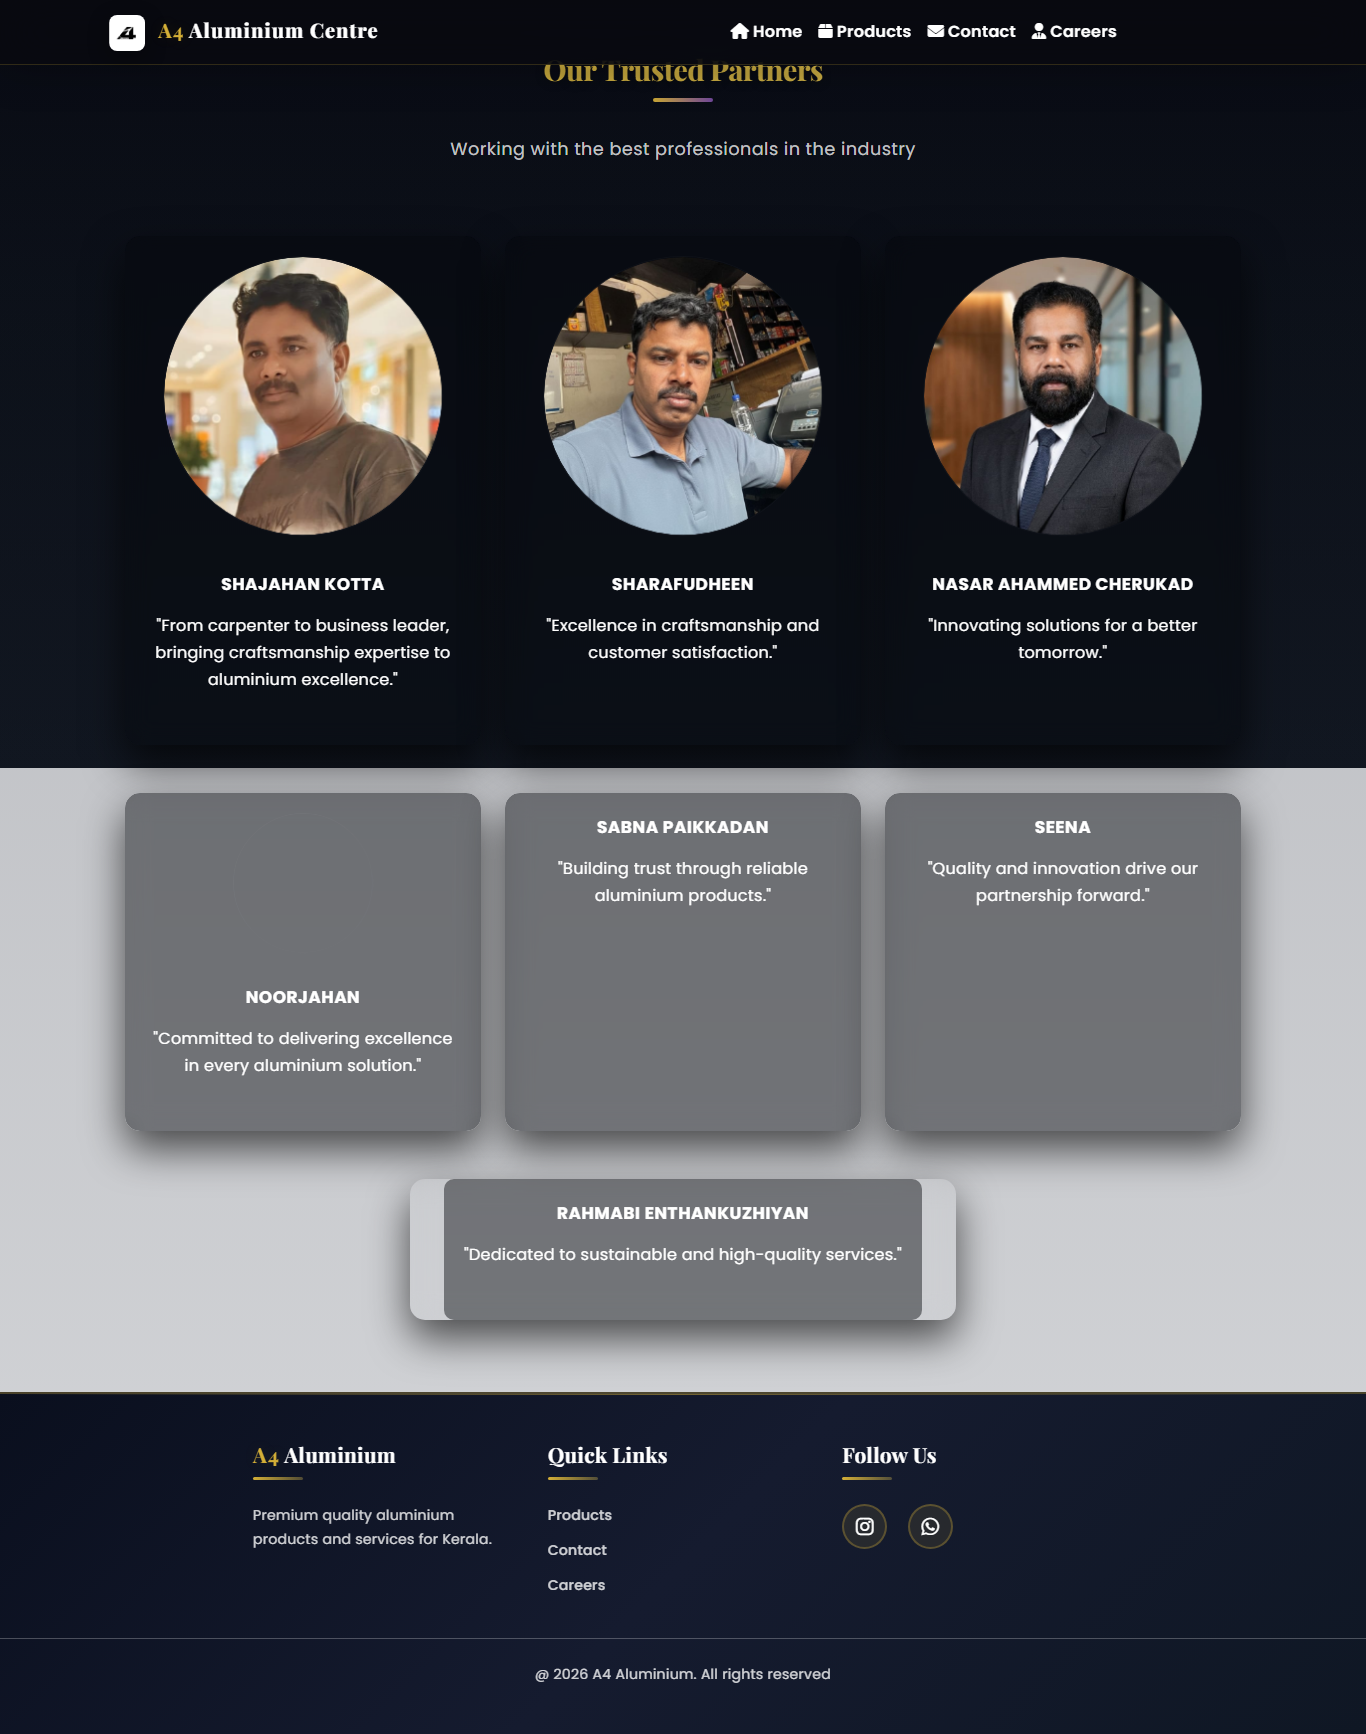
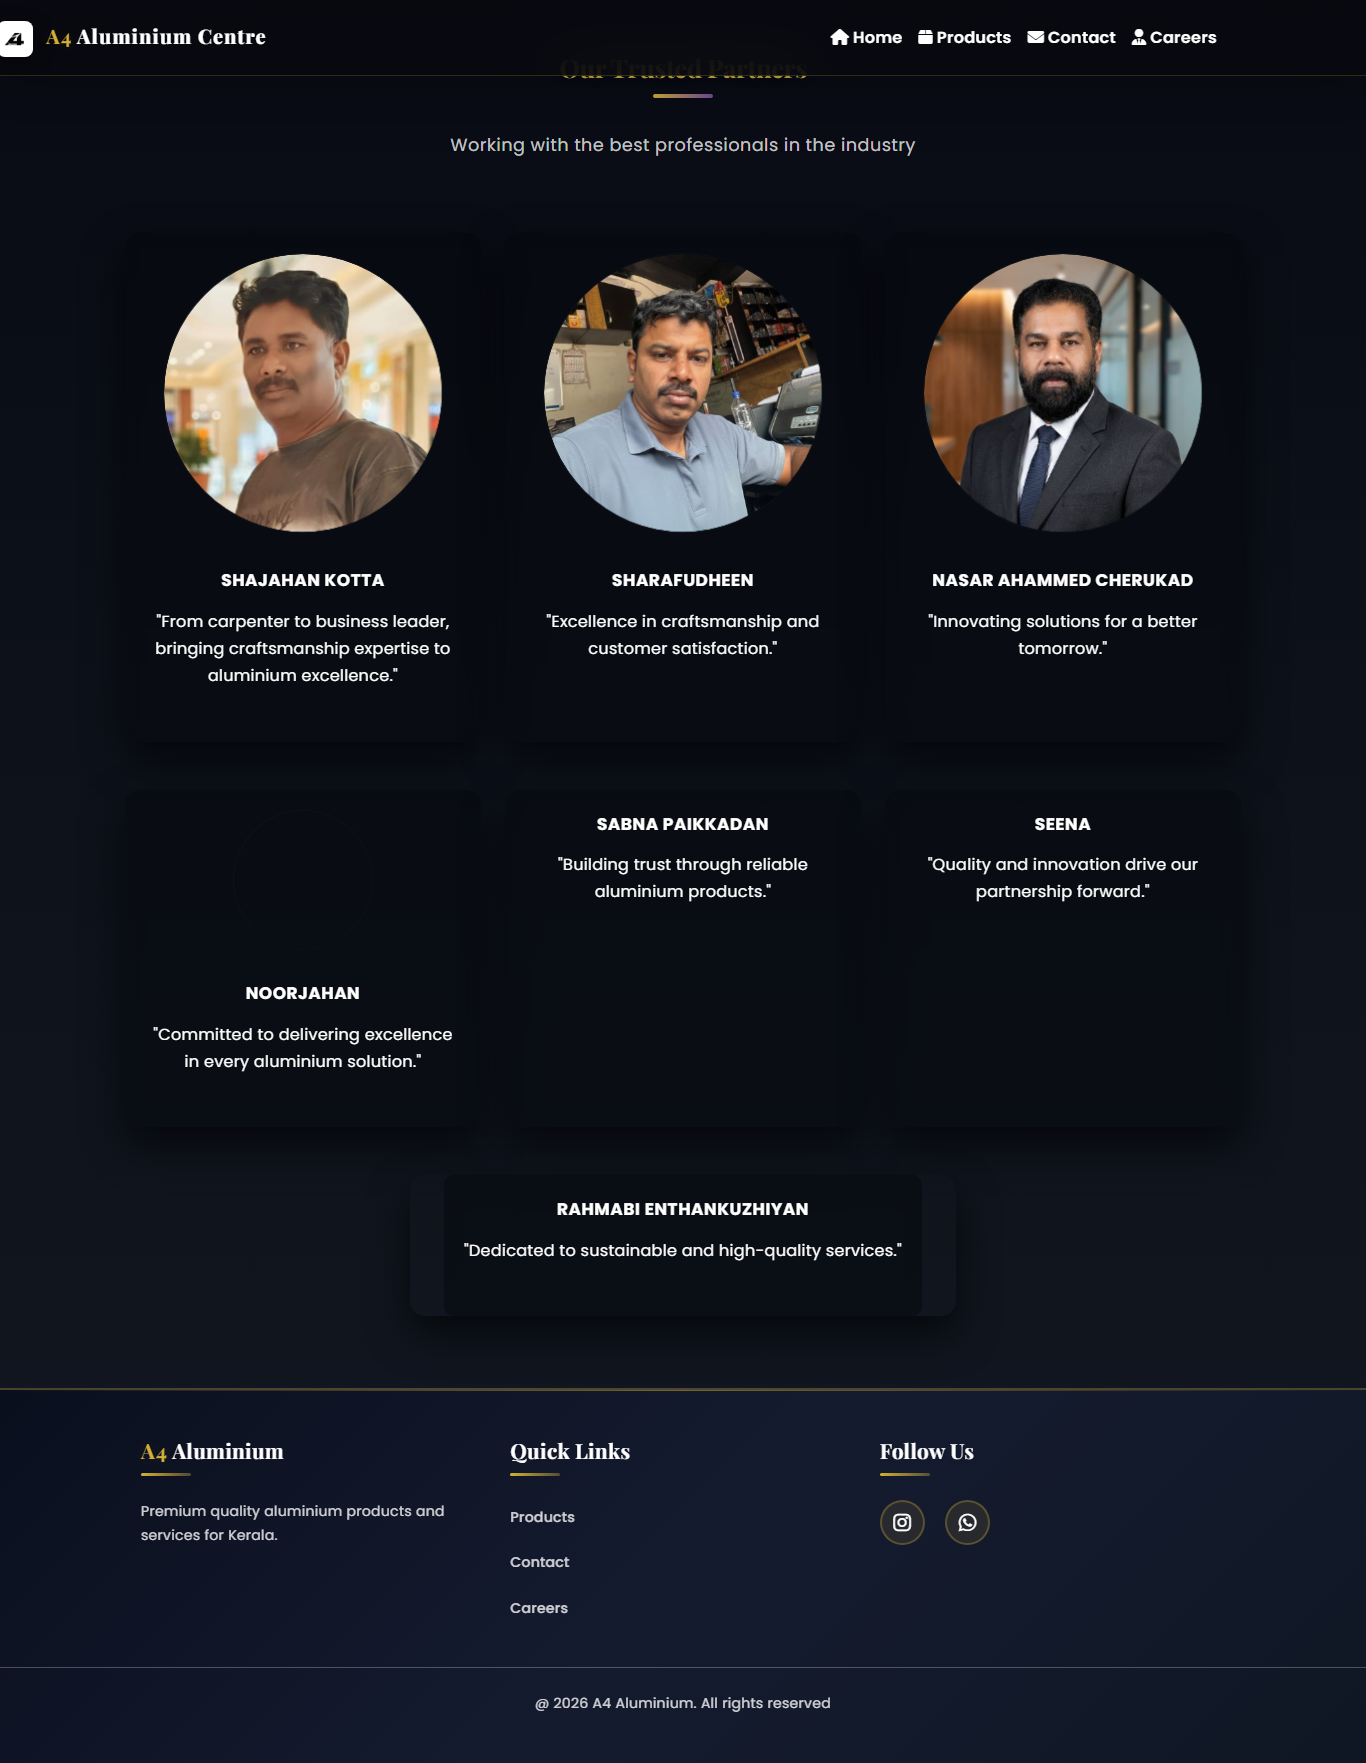
Update: a4 aluminium

diff --git a/script.js b/script.js
@@ -1,6 +1,30 @@
 // Professional JavaScript for A4 Aluminium Website
 
 document.addEventListener("DOMContentLoaded", function () {
+  // Ensure html/body have inline background styles immediately to avoid
+  // repaint gaps/white flashes during fast scrolling. Inline styles take
+  // precedence over CSS and apply before external CSS fully paints.
+  try {
+    const grad =
+      "linear-gradient(180deg, #08090f 0%, #0d1117 40%, #131820 100%)";
+    document.documentElement.style.background = grad;
+    document.documentElement.style.backgroundAttachment = "scroll";
+    document.documentElement.style.backgroundColor = "#08090f";
+    document.documentElement.style.height = "100%";
+    if (document.body) {
+      document.body.style.background = grad;
+      document.body.style.backgroundAttachment = "scroll";
+      document.body.style.minHeight = "100vh";
+      document.body.style.backgroundColor = "#08090f";
+    }
+    // Reapply on load in case something overrides earlier
+    window.addEventListener("load", function () {
+      document.documentElement.style.backgroundAttachment = "scroll";
+      if (document.body) document.body.style.backgroundAttachment = "scroll";
+    });
+  } catch (e) {
+    // ignore
+  }
   // Preloader
   const preloader = document.getElementById("preloader");
   if (preloader) {
@@ -467,6 +491,29 @@ document.addEventListener("DOMContentLoaded", function () {
     recompute();
     window.addEventListener("resize", recompute);
     window.addEventListener("scroll", recompute);
+  })();
+
+  // Optional: Force desktop mode on narrow viewports via CSS class.
+  // This keeps the responsive meta intact but forces desktop widths
+  // so the site appears in desktop layout on phones (user requested).
+  (function forceDesktopMode() {
+    try {
+      const shouldForce = window.innerWidth < 1000; // threshold for phones/tablets
+      if (shouldForce) {
+        document.body.classList.add("force-desktop");
+      } else {
+        document.body.classList.remove("force-desktop");
+      }
+
+      // Re-evaluate on orientation change or resize
+      window.addEventListener("resize", function () {
+        if (window.innerWidth < 1000)
+          document.body.classList.add("force-desktop");
+        else document.body.classList.remove("force-desktop");
+      });
+    } catch (e) {
+      // fail silently
+    }
   })();
 });
 

diff --git a/styles-fixes.css b/styles-fixes.css
@@ -325,6 +325,51 @@ img {
     -webkit-backface-visibility: hidden;
     backface-visibility: hidden;
   }
+}
+
+/* Make the white-flash fix global: override fixed background attachment
+   and ensure a fallback background color so repaints don't show white. */
+html, body {
+  background-attachment: scroll !important;
+  background-color: #08090f !important;
+  min-height: 100% !important;
+}
+
+/* Override the large fixed gradient on body from `styles.css` so mobile
+   repaint won't show gaps. Keep same gradient but with scroll attachment. */
+body {
+  background: linear-gradient(180deg, #08090f 0%, #0d1117 40%, #131820 100%) !important;
+  background-attachment: scroll !important;
+}
+
+/* --- Force-desktop mode (CSS-only) ---
+   Applied by adding `force-desktop` to the <body>. This preserves the
+   responsive meta but forces desktop-like widths and centers content.
+   It intentionally allows horizontal scrolling on narrow viewports so
+   the desktop layout remains intact rather than reflowing into mobile.
+*/
+body.force-desktop {
+  min-width: 1200px;
+  overflow-x: auto;
+}
+
+body.force-desktop .container,
+body.force-desktop .container-fluid {
+  max-width: 1200px !important;
+  width: 1200px !important;
+  margin-left: auto !important;
+  margin-right: auto !important;
+}
+
+/* Make sure core components align inside forced desktop containers */
+body.force-desktop .hero-image-frame {
+  width: 100% !important;
+  max-width: 1100px !important;
+}
+body.force-desktop .partners-section .partner-frame {
+  margin-left: auto !important;
+  margin-right: auto !important;
+}
   /* Ensure wrapper elements don't collapse and show white beneath */
   .site-wrapper,
   main,

diff --git a/index.html b/index.html
@@ -2,7 +2,7 @@
 <html lang="en">
   <head>
     <meta charset="UTF-8" />
-    <meta name="viewport" content="width=1200" />
+    <meta name="viewport" content="width=device-width, initial-scale=1.0" />
     <title>A4 Aluminium Centre - Premier Aluminium Suppliers in Kerala</title>
     <link
       href="https://cdn.jsdelivr.net/npm/bootstrap@5.3.0/dist/css/bootstrap.min.css"

diff --git a/tmp_index.html b/tmp_index.html
@@ -2,7 +2,7 @@
 <html lang="en">
   <head>
     <meta charset="UTF-8" />
-    <meta name="viewport" content="width=1200" />
+    <meta name="viewport" content="width=device-width, initial-scale=1.0" />
     <title>A4 Aluminium Centre - Premier Aluminium Suppliers in Kerala</title>
     <link
       href="https://cdn.jsdelivr.net/npm/bootstrap@5.3.0/dist/css/bootstrap.min.css"

diff --git a/tmp_index_after.html b/tmp_index_after.html
@@ -2,7 +2,7 @@
 <html lang="en">
   <head>
     <meta charset="UTF-8" />
-    <meta name="viewport" content="width=1200" />
+    <meta name="viewport" content="width=device-width, initial-scale=1.0" />
     <title>A4 Aluminium Centre - Premier Aluminium Suppliers in Kerala</title>
     <link
       href="https://cdn.jsdelivr.net/npm/bootstrap@5.3.0/dist/css/bootstrap.min.css"

diff --git a/tmp_index_after_overlay_fix.html b/tmp_index_after_overlay_fix.html
@@ -2,7 +2,7 @@
 <html lang="en">
   <head>
     <meta charset="UTF-8" />
-    <meta name="viewport" content="width=1200" />
+    <meta name="viewport" content="width=device-width, initial-scale=1.0" />
     <title>A4 Aluminium Centre - Premier Aluminium Suppliers in Kerala</title>
     <link
       href="https://cdn.jsdelivr.net/npm/bootstrap@5.3.0/dist/css/bootstrap.min.css"

diff --git a/tmp_index_final.html b/tmp_index_final.html
@@ -2,7 +2,7 @@
 <html lang="en">
   <head>
     <meta charset="UTF-8" />
-    <meta name="viewport" content="width=1200" />
+    <meta name="viewport" content="width=device-width, initial-scale=1.0" />
     <title>A4 Aluminium Centre - Premier Aluminium Suppliers in Kerala</title>
     <link
       href="https://cdn.jsdelivr.net/npm/bootstrap@5.3.0/dist/css/bootstrap.min.css"

diff --git a/tmp_index_frame.html b/tmp_index_frame.html
@@ -2,7 +2,7 @@
 <html lang="en">
   <head>
     <meta charset="UTF-8" />
-    <meta name="viewport" content="width=1200" />
+    <meta name="viewport" content="width=device-width, initial-scale=1.0" />
     <title>A4 Aluminium Centre - Premier Aluminium Suppliers in Kerala</title>
     <link
       href="https://cdn.jsdelivr.net/npm/bootstrap@5.3.0/dist/css/bootstrap.min.css"

diff --git a/tmp_index_frame2.html b/tmp_index_frame2.html
@@ -2,7 +2,7 @@
 <html lang="en">
   <head>
     <meta charset="UTF-8" />
-    <meta name="viewport" content="width=1200" />
+    <meta name="viewport" content="width=device-width, initial-scale=1.0" />
     <title>A4 Aluminium Centre - Premier Aluminium Suppliers in Kerala</title>
     <link
       href="https://cdn.jsdelivr.net/npm/bootstrap@5.3.0/dist/css/bootstrap.min.css"

diff --git a/tmp_index_frame3.html b/tmp_index_frame3.html
@@ -2,7 +2,7 @@
 <html lang="en">
   <head>
     <meta charset="UTF-8" />
-    <meta name="viewport" content="width=1200" />
+    <meta name="viewport" content="width=device-width, initial-scale=1.0" />
     <title>A4 Aluminium Centre - Premier Aluminium Suppliers in Kerala</title>
     <link
       href="https://cdn.jsdelivr.net/npm/bootstrap@5.3.0/dist/css/bootstrap.min.css"

diff --git a/partners.html b/partners.html
@@ -2,7 +2,7 @@
 <html lang="en">
   <head>
     <meta charset="UTF-8" />
-    <meta name="viewport" content="width=1200" />
+    <meta name="viewport" content="width=device-width, initial-scale=1.0" />
     <title>Our Partners - A4 Aluminium Centre</title>
     <link
       href="https://cdn.jsdelivr.net/npm/bootstrap@5.3.0/dist/css/bootstrap.min.css"

diff --git a/products.html b/products.html
@@ -2,7 +2,7 @@
 <html lang="en">
   <head>
     <meta charset="UTF-8" />
-    <meta name="viewport" content="width=1200" />
+    <meta name="viewport" content="width=device-width, initial-scale=1.0" />
     <title>Our Products - A4 Aluminium Centre</title>
     <link
       href="https://cdn.jsdelivr.net/npm/bootstrap@5.3.0/dist/css/bootstrap.min.css"
